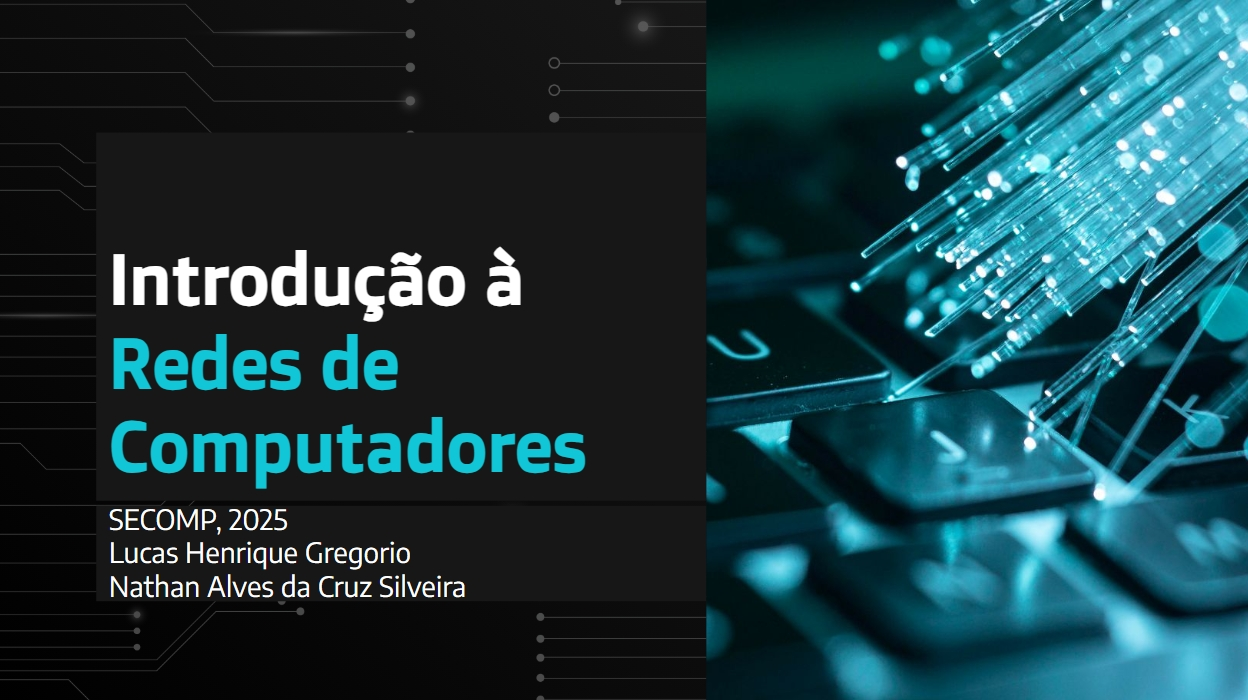
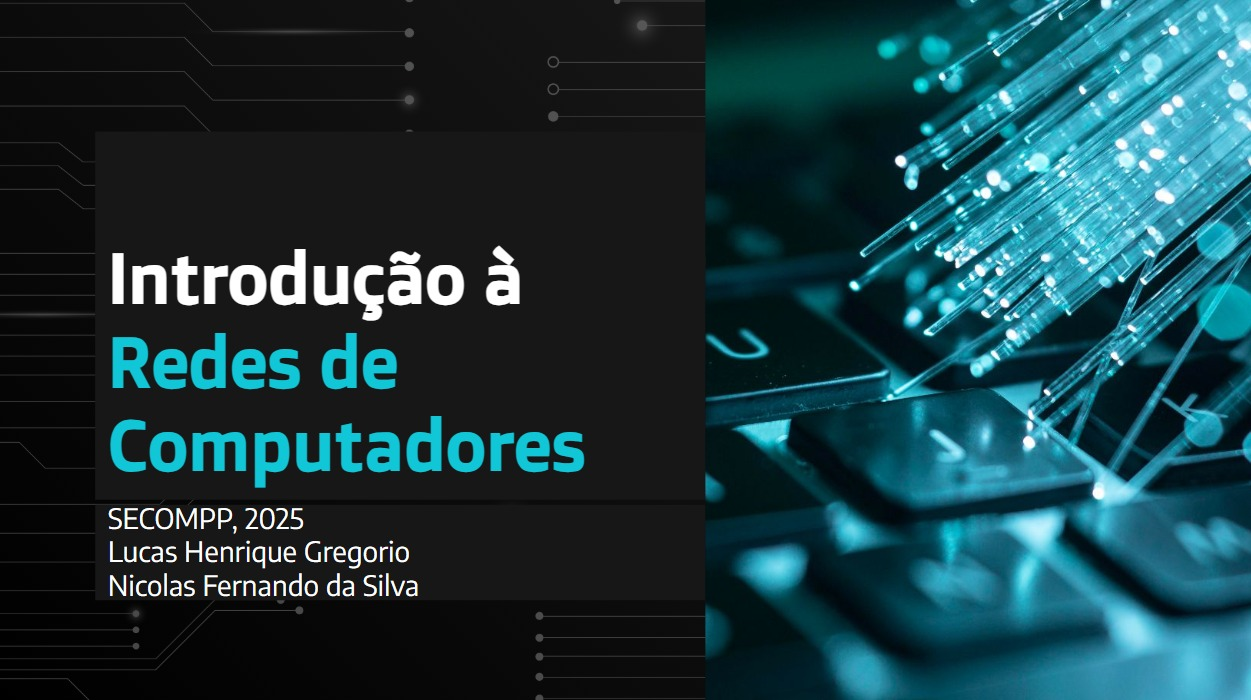
patrocinadores atualizados

diff --git a/src/app/components/Footer.tsx b/src/app/components/Footer.tsx
@@ -1,67 +1,22 @@
 export default function Footer() {
     return(
         <div className="bg-[#0E1526] p-5 grid grid-rows-2 lg:grid-rows-1 lg:grid-cols-4">
-            <div className="lg:col-span-3 grid sm:grid-cols-3 text-white items-center gap-4 m-3">
+            <div className="lg:col-span-3 grid sm:grid-cols-2 text-white items-center gap-4 m-3">
                 <div className="flex flex-col items-center">
                     <p className="font-bold text-lg">Patrocínio</p>
-                    <div className="flex flex-col items-start gap-3">
+                    <div className="flex flex-col items-center gap-3">
                         <div className="flex items-center gap-3">
-                            <div className="p-5 bg-gray-500 rounded-full">
-                            </div>
-                            <a className={"hover:text-[#FFB300] hover:underline underline-offset-5 transition"} href="">@Patrocinador</a>
-                        </div>
-                        <div className="flex items-center gap-3">
-                            <div className="p-5 bg-gray-500 rounded-full">
-                            </div>
-                            <a className={"hover:text-[#FFB300] hover:underline underline-offset-5 transition"} href="">@Patrocinador</a>
-                        </div>
-                        <div className="flex items-center gap-3">
-                            <div className="p-5 bg-gray-500 rounded-full">
-                            </div>
-                            <a className={"hover:text-[#FFB300] hover:underline underline-offset-5 transition"} href="">@Patrocinador</a>
+                            <a className={"hover:text-[#FFB300] hover:underline underline-offset-5 transition"} href="https://vericode.com.br/">Vericode</a>
                         </div>
                     </div>
                 </div>
                 <div className="flex flex-col items-center">
                     <p className="font-bold text-lg">Realização</p>
-                    <div className="flex flex-col items-start gap-3">
+                    <div className="flex flex-col items-center gap-3">
                         <div className="flex items-center gap-3">
-                            <div className="p-5 bg-gray-500 rounded-full">
-                            </div>
-                            <a className={"hover:text-[#FFB300] hover:underline underline-offset-5 transition"} href="">@Patrocinador</a>
-                        </div>
-                        <div className="flex items-center gap-3">
-                            <div className="p-5 bg-gray-500 rounded-full">
-                            </div>
-                            <a className={"hover:text-[#FFB300] hover:underline underline-offset-5 transition"} href="">@Patrocinador</a>
-                        </div>
-                        <div className="flex items-center gap-3">
-                            <div className="p-5 bg-gray-500 rounded-full">
-                            </div>
-                            <a className={"hover:text-[#FFB300] hover:underline underline-offset-5 transition"} href="">@Patrocinador</a>
+                            <a className={"hover:text-[#FFB300] hover:underline underline-offset-5 transition"} href="https://www.alimentoswilson.com.br/marca/refresco-wilson.html">Refresco Wilson</a>
                         </div>
                     </div>
-                </div>
-                <div className="flex flex-col items-center">
-                    <p className="font-bold text-lg">Apoio</p>
-                    <div className="flex flex-col items-start gap-3">
-                        <div className="flex items-center gap-3">
-                            <div className="p-5 bg-gray-500 rounded-full">
-                            </div>
-                            <a className={"hover:text-[#FFB300] hover:underline underline-offset-5 transition"} href="">@Patrocinador</a>
-                        </div>
-                        <div className="flex items-center gap-3">
-                            <div className="p-5 bg-gray-500 rounded-full">
-                            </div>
-                            <a className={"hover:text-[#FFB300] hover:underline underline-offset-5 transition"} href="">@Patrocinador</a>
-                        </div>
-                        <div className="flex items-center gap-3">
-                            <div className="p-5 bg-gray-500 rounded-full">
-                            </div>
-                            <a className={"hover:text-[#FFB300] hover:underline underline-offset-5 transition"} href="">@Patrocinador</a>
-                        </div>
-                    </div>
-
                 </div>
             </div>
             <div className="bg-[#D9D9D922] rounded-4xl grid grid-rows-2 justify-center lg:flex lg:flex-col">

diff --git a/src/data/events.ts b/src/data/events.ts
@@ -96,7 +96,7 @@ export const minicursos: Evento[] = [
     {
         title: "Introdução a redes de computadores",
         horario: "Terça-feira 14:00-18:00 | Quarta-feira 14:00-18:00",
-        ministrante: "Nathan Alves Da Cruz Silveira  | Lucas Henrique Gregorio",
+        ministrante: "Nicolas Fernando da Silva | Lucas Henrique Gregorio",
         local: "Sala 5B",
         preRequisito: "Não há pré-requisitos",
         descricao: "---",

diff --git a/src/app/components/presentation/presentation.tsx b/src/app/components/presentation/presentation.tsx
@@ -13,7 +13,6 @@ export default function Presentation() {
         <div className={styles.container}>
             <header className={styles.header}>
                 <div className={styles.logoSection}>
-                    <div className={styles.logoCircle}></div>
                     <div className={styles.siteName}>SECOMPP25</div>
                 </div>
 
